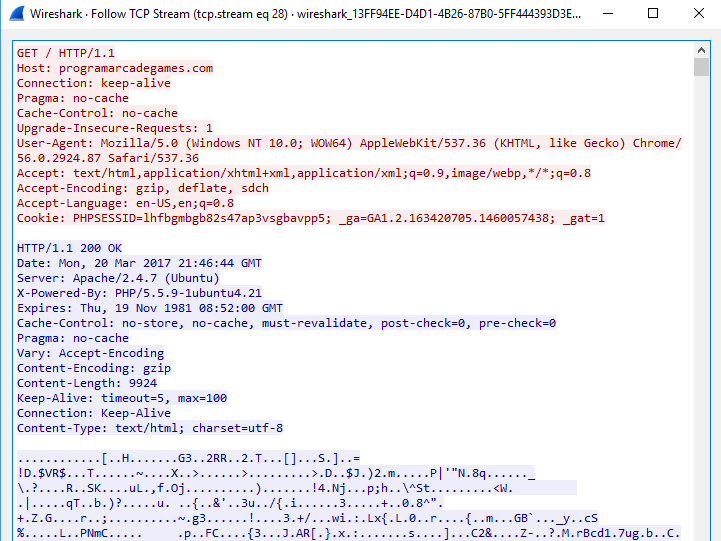
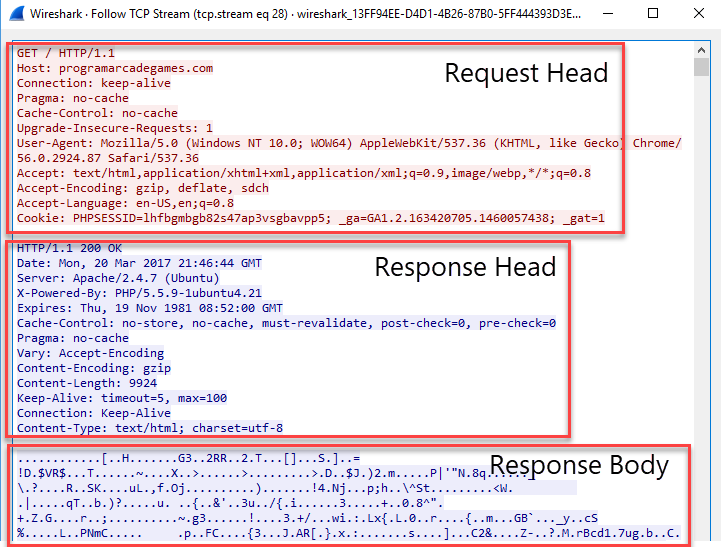
Update

diff --git a/source/semester_2/13_cookies/cookie_demo.html b/source/semester_2/13_cookies/cookie_demo.html
@@ -2,45 +2,46 @@
 
 <html lang="en">
 <head>
-    <meta http-equiv="Content-Type" content="text/html; charset=UTF-8" />
+    <meta http-equiv="Content-Type" content="text/html; charset=utf-8">
     <meta name="viewport" content="width=device-width, initial-scale=1, shrink-to-fit=no">
     <meta http-equiv="x-ua-compatible" content="ie=edge">
-    <link rel="stylesheet" href="https://maxcdn.bootstrapcdn.com/bootstrap/3.3.7/css/bootstrap.min.css">
-    <link rel="stylesheet" href="https://maxcdn.bootstrapcdn.com/bootstrap/3.3.7/css/bootstrap-theme.min.css">
-    <title>Sample Form</title>
+
+    <link rel="stylesheet"
+          href="https://stackpath.bootstrapcdn.com/bootstrap/4.5.2/css/bootstrap.min.css"
+          integrity="sha384-JcKb8q3iqJ61gNV9KGb8thSsNjpSL0n8PARn9HuZOnIxN0hoP+VmmDGMN5t9UJ0Z"
+          crossorigin="anonymous">
+
+    <!-- Pick a theme!
+         https://www.bootstrapcdn.com/bootswatch/
+         -->
+    <link rel="stylesheet"
+          href="https://stackpath.bootstrapcdn.com/bootswatch/4.5.2/cosmo/bootstrap.min.css">
+
+    <title>Cookie Demo Page</title>
 </head>
 
 <body>
 
-<!-- Navigation Bar -->
-<nav class="navbar navbar-inverse">
-    <div class="container">
-        <div class="navbar-header">
-            <button type="button" class="navbar-toggle collapsed" data-toggle="collapse" data-target="#navbar" aria-expanded="false" aria-controls="navbar">
-                <span class="sr-only">Toggle navigation</span>
-
-                <!-- Three line "hamburger" icon for the collapsed navigation -->
-                <span class="icon-bar"></span>
-                <span class="icon-bar"></span>
-                <span class="icon-bar"></span>
-            </button>
-
-            <!-- Title on nav bar -->
-            <a class="navbar-brand" href="#">CIS 320</a>
-        </div>
-
-        <div id="navbar" class="collapse navbar-collapse">
-            <ul class="nav navbar-nav">
-                <li class="active"><a href="index.html">Home</a></li>
-                <li><a href="javascript_assignment.html">Javascript Assignment</a></li>
-                <li><a href="test_javascript.html">Test Javascript</a></li>
-                <li><a href="name_list.html">Name List</a></li>
-                <li><a href="form_demo.html">Form Demo</a></li>
-                <li><a href="cookie_demo.html">Cookie Demo</a></li>
-                <li><a href="session_demo.html">Session Demo</a></li>
-
-            </ul>
-        </div>
+<nav class="navbar navbar-expand-lg navbar-dark bg-dark">
+    <a class="navbar-brand" href="#">Simpson College</a>
+    <div class="collapse navbar-collapse" id="navbarSupportedContent">
+        <ul class="navbar-nav mr-auto">
+            <li class="nav-item">
+                <a class="nav-link" href="index.html">Home</a>
+            </li>
+            <li class="nav-item">
+                <a class="nav-link" href="api/name_list_get">Name List JSON</a>
+            </li>
+            <li class="nav-item">
+                <a class="nav-link" href="name_list.html">Name List</a>
+            </li>
+            <li class="nav-item">
+                <a class="nav-link" href="form_demo.html">Form Demo</a>
+            </li>
+            <li class="nav-item active">
+                <a class="nav-link" href="#">Cookie Demo <span class="sr-only">(current)</span></a>
+            </li>
+        </ul>
     </div>
 </nav>
 
@@ -71,9 +72,12 @@
 
 </div>
 
-<script src="https://cdnjs.cloudflare.com/ajax/libs/jquery/3.1.1/jquery.min.js"></script>
+<script src="https://code.jquery.com/jquery-3.5.1.min.js"
+        integrity="sha256-9/aliU8dGd2tb6OSsuzixeV4y/faTqgFtohetphbbj0="
+        crossorigin="anonymous"></script>
+<script src="https://stackpath.bootstrapcdn.com/bootstrap/4.5.2/js/bootstrap.min.js"
+        integrity="sha384-B4gt1jrGC7Jh4AgTPSdUtOBvfO8shuf57BaghqFfPlYxofvL8/KUEfYiJOMMV+rV"
+        crossorigin="anonymous"></script>
 <script src="js/cookie_demo.js"></script>
-<script src="https://cdnjs.cloudflare.com/ajax/libs/tether/1.3.7/js/tether.min.js"></script>
-<script src="https://maxcdn.bootstrapcdn.com/bootstrap/3.3.7/js/bootstrap.min.js"></script>
 </body>
 </html>

diff --git a/source/semester_2/13_cookies/cookie_demo.js b/source/semester_2/13_cookies/cookie_demo.js
@@ -1,4 +1,3 @@
-
 // This function uses JavaScript to print all our cookies.
 // It does not use the back-end at all.
 function getCookiesJavaScript() {
@@ -55,7 +54,7 @@ function setCookieJavascriptButton() {
     // I know all the cookies are stored in "document.cookie" as one
     // long string. So storing 1 cookie in this string clears all the
     // old cookies? No! It doesn't. So this isn't really a string.
-    document.cookie = cookieName + "=" + cookieValue;
+    document.cookie = cookieName + "=" + cookieValue + "; SameSite=Lax";
 
     // Clear the form fields.
     $("#cookieName").val("");
@@ -95,4 +94,3 @@ button.on("click", setCookieJavascriptButton);
 
 button = $('#setCookieJava');
 button.on("click", setCookieJava);
-

diff --git a/source/semester_2/13_cookies/SetCookieServlet.java b/source/semester_2/13_cookies/SetCookieServlet.java
@@ -1,31 +1,33 @@
-package edu.simpson.craven;
+package edu.simpson.cis320.crud_app;
 
 import javax.servlet.ServletException;
 import javax.servlet.annotation.WebServlet;
-import javax.servlet.http.Cookie;
-import javax.servlet.http.HttpServlet;
-import javax.servlet.http.HttpServletRequest;
-import javax.servlet.http.HttpServletResponse;
+import javax.servlet.http.*;
 import java.io.IOException;
 import java.io.PrintWriter;
+import java.util.Enumeration;
 
-@WebServlet(name = "SetCookieServlet")
-public class SetCookieServlet extends HttpServlet {
-    protected void doPost(HttpServletRequest request, HttpServletResponse response) throws ServletException, IOException {
+@WebServlet(name = "GetCookieServlet", value = "/api/get_cookies_servlet")
+public class GetCookiesServlet extends HttpServlet {
+    protected void doPost(HttpServletRequest request, HttpServletResponse response)
+            throws ServletException, IOException {
         response.setContentType("text/plain");
         PrintWriter out = response.getWriter();
 
-        String cookieName = request.getParameter("cookieName");
-        String cookieValue = request.getParameter("cookieValue");
+        // --- Cookies ---
+        // Get all the cookies
+        Cookie [] cookies = request.getCookies();
 
-        Cookie userCookie = new Cookie(cookieName, cookieValue);
+        // Print how many cookies we have
+        out.println(String.format("%d cookies:", cookies.length));
 
-        // Positive number - Cookie stored for that many seconds
-        // Zero - Delete cookie
-        // Negative number - Cookie is only stored while the browser is open
-        userCookie.setMaxAge(60*60*24*365); //Store cookie for 1 year
-
-        response.addCookie(userCookie);
-        out.println("Done setting the cookie");
+        // Print all the cookies
+        for(Cookie cookie: cookies) {
+            out.println(String.format("  %s = %s",cookie.getName(), cookie.getValue()));
+            out.println(String.format("    Domain  = %s",cookie.getDomain()));
+            out.println(String.format("    Path    = %s",cookie.getPath()));
+            out.println(String.format("    MaxAge  = %s",cookie.getMaxAge()));
+            out.println(String.format("    Secure? = %s",cookie.getSecure()));
+        }
     }
 }

diff --git a/source/semester_2/13_cookies/GetCookiesServlet.java b/source/semester_2/13_cookies/GetCookiesServlet.java
@@ -9,7 +9,8 @@ import java.util.Enumeration;
 
 @WebServlet(name = "GetCookiesServlet")
 public class GetCookiesServlet extends HttpServlet {
-    protected void doPost(HttpServletRequest request, HttpServletResponse response) throws ServletException, IOException {
+    protected void doPost(HttpServletRequest request, HttpServletResponse response)
+            throws ServletException, IOException {
         response.setContentType("text/plain");
         PrintWriter out = response.getWriter();
 

diff --git a/source/semester_2/13_cookies/cookies.rst b/source/semester_2/13_cookies/cookies.rst
@@ -1,5 +1,5 @@
-Cookies
-=======
+Cookies and Local Storage
+=========================
 
 You make have heard about cookies and web pages. What is a cookie, and what
 is it used for?
@@ -32,12 +32,82 @@ It is important that if we use a session id, we also use https for our
 communications. That will help prevent a person from "sniffing" the session
 id and pretending to be a different person.
 
+HTML5 Local Storage
+-------------------
 
-How do you look at cookies from the browser
--------------------------------------------
+Starting with HTML5, web browsers added three new kinds of storage
+in addition to cookies:
 
++------------+-----------+-----------------+-----------------+
+| Storage    | Format    | Scope           | Persistence     |
++============+===========+=================+=================+
+| Session    | Key/value | Session only	   | Session only    |
++------------+-----------+-----------------+-----------------+
+| Local      | Key/value | Across sessions | Across sessions |
++------------+-----------+-----------------+-----------------+
+| Database   | Structured| Across sessions | Across sessions |
++------------+-----------+-----------------+-----------------+
+
+
+What websites are storing cookies?
+----------------------------------
+
+Web browsers store the data on your computer. Typically the data will be buried
+in a spot like:
+
+``C:\Users\myusername\AppData\Local\Google\Chrome\User Data\Default``
+
+However, there are a couple spots in the web browser where you can look at the
+sites that are storing data.
+
+Firefox
+^^^^^^^
+
+Click the drop down menu and hit "Options"
+
+.. image:: all_cookies_1.png
+    :width: 40%
+
+Then select Privacy and Security, find the "Cookies and Site Data" section, and
+finally "Manage Data."
+
+.. image:: all_cookies_2.png
+
+Then you can see what sites have stored data. Unfortunately with Firefox
+you can't quickly browse that data without a browser plug-in.
+
+.. image:: all_cookies_3.png
+    :width: 80%
+
+Chrome
+^^^^^^
+
+For Chrome, select the drop-down menu in the upper right and click "Settings."
+
+.. image:: chrome_all_cookies_1.png
+    :width: 35%
+
+Then find "Privacy and security", followed by "Cookies and other site data."
+
+.. image:: chrome_all_cookies_2.png
+
+Finally "See all cookies and site data."
+
+.. image:: chrome_all_cookies_3.png
+
+Finally, find some cookies, expand them out and see the content.
+
+.. image:: chrome_all_cookies_4.png
+
+
+How do you look at cookies from the developer console?
+------------------------------------------------------
+
+* Firefox: F12, find "Storage" tab. Look on left side for cookies.
 * Chrome: F12, find "Application" tab. Look on left side for cookies.
 * Edge: F12, find "Debugger" tab. Look on left side for cookies.
+
+.. image:: dev_cookies.png
 
 How are cookies really set and transmitted?
 -------------------------------------------
@@ -46,12 +116,25 @@ Remember how HTML has a "head" section? Confusingly, so does HTTP.
 So if we use HTTP to transfer HTML, the HTTP has a head, and the HTML has
 a head. They are totally different things.
 
-Cookies are set and passed back in the HEAD section of HTTP. See below
-for a trace of setting a cookie:
+In the image below, we use the packet tracing tool called Wireshark to see the
+data. The "red" data is what comes from the web browser. The "blue" data is what
+comes from the web server. It doesn't look like HTML because it is
+compressed/zipped.
+
+There are two major parts to a request from the client, and a response from
+the server. There's a request head, and a request body. THen there's a response
+head and a response body. The body is optional in some cases, such as this
+request for a page. There might be a request body if I was sending form data
+to the server.
 
 .. image:: cookie_trace_1.png
 
-See below for a trace of getting a cookie back:
+Cookies are set and passed back in the HEAD section of the HTTP response.
+
+It is up to the client browser to get that cookie, then send it for every subsequent
+HTTP request head.
+
+See below for a trace of setting a cookie:
 
 .. image:: cookie_trace_2.png
 
@@ -103,7 +186,7 @@ If there is only one that you want, you need to search the list for it.
     :linenos:
     :language: Java
     :caption: GetCookieServlet.java
-    :emphasize-lines: 18
+    :emphasize-lines: 19
 
 Setting a cookie is a two-step process. You create a ``Cookie`` object, then
 add it to the response with ``response.addCookie()``. You can also set a
@@ -114,7 +197,7 @@ browser closes.
     :linenos:
     :language: Java
     :caption: SetCookieServlet.java
-    :emphasize-lines: 21, 26, 28
+    :emphasize-lines: 22, 27, 29
 
 Cookie Limits
 -------------
